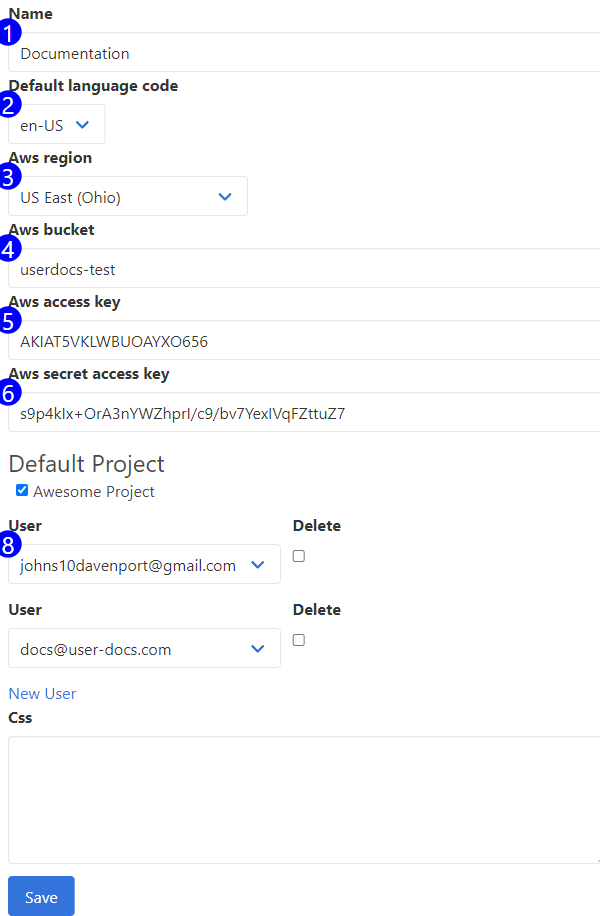
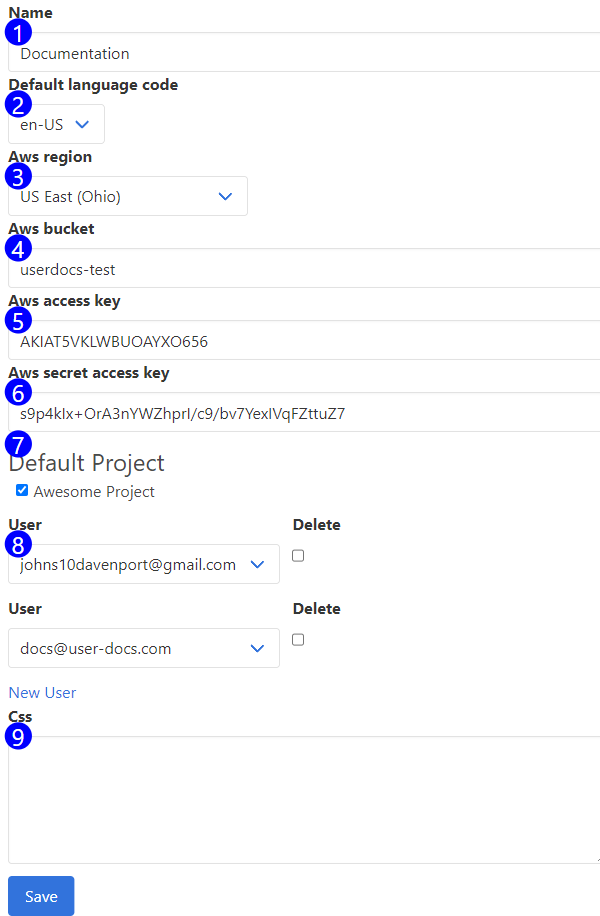
dawks

diff --git a/docs/publish.py b/docs/publish.py
@@ -13,19 +13,20 @@ def rewrite_links(content, docs):
   pattern = r'(?<!\!)\[[^\]]+\]\(([^)]+)\.md\)'
   result = re.findall(pattern, content)
   for name in result:
-    logging.debug("Attempting to rewrite link for " + name)
+    print("Attempting to rewrite link for " + name)
     doc = get_doc(docs, name)
     try:
       slug = doc["post_name"]
     except TypeError:
       logging.error("Doc not found for " + name + ", link won't get rewritten")
       slug = ""
-    content = rewrite_link(content, name, slug)
+    content = rewrite_link(content, name, "", slug)
 
   return content
 
-def rewrite_link(content, name, slug):
+def rewrite_link(content, name, path, slug):
   file_name = name + ".md"
+  # link = "/" + path + slug # Looks unnecessary to rewrite the path
   link = "/" + slug
   return content.replace(file_name, link)
 
@@ -33,6 +34,31 @@ def get_doc(docs, name):
   for doc in docs:
     if doc["file_name"] == name + ".md":
       return doc
+
+"""
+This was to rewrite the path according to the parents. Looks unnecessary.
+def get_doc_by_id(docs, id):
+  for doc in docs:
+    if doc["id"] == id:
+      return doc
+
+def get_parents(parents, docs, doc):
+  parent_id = doc["post_parent"]
+  if parent_id == 0:
+    return reversed(parents)
+  else:
+    parent = get_doc_by_id(docs, parent_id)
+    parents.append(parent['post_name'])
+    parents = get_parents(parents, docs, parent)
+    return parents
+
+def build_path(parents):
+  path = ""
+  for parent in parents:
+    path += parent + "/"
+
+  return path
+"""
 
 for doc in docs:
   logging.info(f'publishing {doc["file_name"]}')

diff --git a/docs/step_types.md b/docs/step_types.md
@@ -1,22 +1,18 @@
-Step Types are the different types of steps that can be executed in the browser. Each step type has a handler implemented for the selected automation framework (we only support puppeteer at this time). Check out the puppeteer step handlers [here](https://github.com/johns10/userdocs_clients/blob/main/packages/runner/src/automation/puppeteer/stepHandlers.ts).
+Step Types are the different types of steps that UserDocs executes in the browser. Each step type has a handler implemented for the selected automation framework (currently, we support puppeteer). Check out the puppeteer step handlers [here](https://github.com/johns10/userdocs_clients/blob/main/packages/runner/src/automation/puppeteer/stepHandlers.ts).
 
-When a step is issued to the runner for execution, the Automation Framework will look up the handler for it, and execute it on the automated browser.
+When UserDocs issues a step to the runner for execution, the Automation Framework will look up the handler for it, and execute it on the automated browser.
 
-Many of the step types require additional inputs to execute. Information on each of these types, and their fields can be found in their individual form reference articles:
-* [Click](step_form_click.md)
-* [Fill Field](step_form_fill_field.md)
-* [Navigate](step_form_navigate.md)
-* [Set Size Explicit](step_form_set_size_explicit)
+Some step types require some data entry to execute. Read about each step type in its form reference articles.
 
-Some steps types do not require additional inputs, including:
+Some steps types do not require data entry, including:
 
 ## Full Screen Screenshot
-Takes a screenshot of the entire viewport (may be bounded by the window).
+Takes a screenshot of the entire view port of the browser window.
 
 ## Clear Annotations
-A record of each annotation is attached to the window. This step type clears all annotations from the window.
+UserDocs attaches a record of each annotation to the window. This step type clears all annotations from the window.
 
-## Enable/Disable Javascript
-These steps enable and disable javascript from running in the browser. If you disable javascript temporarily, you should re-enable it before the end of the process. Failing to re-enable javascript is likely to cause failures in downstream steps and processes.
+## Enable/Disable JavaScript
+These steps enable and disable JavaScript from running in the browser. If you disable JavaScript temporarily, you should re-enable it before the end of the process. Failing to re-enable JavaScript may cause failures in downstream steps and processes.
 
-This step type should be used in situations where the page of your application is being updated beyond your control. For example, UserDocs is a server-side rendered application. While we are collecting screenshots for our own application, it is processing subscription updates in the UI. This causes minor UI changes that result in diff errors every time we collect a screenshot. We disable Javascript to prevent these subscription updates from being processed.
+Use this step type in situations where you can't control updates to the page of your application. For example, UserDocs is a server-side rendered application. While collecting screenshots for our application, UserDocs is processing subscription updates in the UI. This causes minor UI changes that result in diffs every time we collect a screenshot. We disable JavaScript to prevent these subscription updates.

diff --git a/docs/team_form_reference.md b/docs/team_form_reference.md
@@ -1,0 +1,18 @@
+Change your teams' settings on the team form, and administer what users have access to your team's content.
+
+UserDocs uses your AWS bucket to store images for the application. You must enter credentials here for the image backend to work. UserDocs will create presigned URL's for the application, so no special security settings are necessary for the application to work.
+
+![Team Form Reference](images/team_form_reference.png)
+
+1. **Name** - The name of your team.
+2. **Default Language Code** - The default language your team speaks and writes. The default languaged used by UserDocs when presenting documentation.
+3. **AWS Region** - The region of your AWS bucket.
+4. **AWS Bucket** - The name of your bucket.
+5. **AWS Access Key** - Access key for the AWS account you've provisioned for this integration.
+6. **AWS Secret Access Key** - The secret for the AWS account you've provisioned for this integration.
+7. **Default Project** - The default project for the team. UserDocs will display data from this project to users who haven't yet selected their current project.
+8. **Team Users** - Use this subform to provision users to work on this team with you. You can remove, update, and add new users with this subform.
+9. **CSS** - UserDocs will inject this CSS code into the automated browser every time it starts up. Use it to style your annotations, minimizing the data entry required to apply annotations to your page.
+
+## Accessible at
+`/teams/:id`

diff --git a/docs/step_form_navigate.md b/docs/step_form_navigate.md
@@ -4,10 +4,10 @@ The Navigate Step type will navigate to the given URL in the browser. Selecting 
 
 1. **Type URL** - Selecting the type option will open a text input you can use to type in a URL to navigate to. This option is not recommended as UserDocs won't be able to associate elements to a page object, or determine what page you are on for the rest of the process.  This option may be deprecated in a future release.
 2. **Page Select Input** - Use this dropdown to pick any page that exists in the project.
-3. **Create Page** - Clicking the new page button will create a blank page, and empty the fields in the page subform.
+3. **Create Page** - Clicking the new page button will create a blank page, and empty the fields in the page sub form.
 4. **Order** - This field will be deprecated. It shouldn't be used.
 5. **Name** - A descriptive name for the page. Will be used in the UI.
-6. **Url** - The URL for the page. This is the address that UserDocs will navigate to when the step is executed. Should be entered in the form protocol://address.com, like https://www.google.com
+6. **URL** - The URL for the page. This is the address that UserDocs will navigate to when the step is executed. Should be entered in the form protocol://address.com, like https://www.google.com
 
 ## Accessible at
 `/steps/:id/edit`

diff --git a/docs/projects_menu_reference.md b/docs/projects_menu_reference.md
@@ -1,0 +1,19 @@
+Use the Project Menu to administer a teams projects. Use this menu to list the projects your team owns, interact with existing projects, and create new ones.
+
+![Project Menu Reference](images/project_menu_reference.png)
+
+1. **Existing Project** - Click the existing project to open the [versions menu](version_menu_reference.md) for this project. This link will ignore your current project selection, and show the versions for the project you clicked. Use this to administer projects that you don't have selected.
+2. **Show Project** - Shows this project. The show menu displays the default version for this project, and the projects versions.
+3. **Edit Project** - Opens the [project form](project_form_reference.md) for this project.
+4. **Delete Project** - Opens a confirmation dialogue, and then deletes the project.
+5. **New Project** - Create a new project.
+
+## Accessible at
+
+`/teams/:team_id/projects`
+
+Displays the projects for a specific team. Used to drill down to a process when you've selected a different version in the picker.
+
+`/projects`
+
+Displays the processes for the selected team.

diff --git a/docs/projects_form_reference.md b/docs/projects_form_reference.md
@@ -1,0 +1,15 @@
+Use this form to interact with existing, and create new projects in your teams workspace.
+
+![Project Form Reference](images/project_form_reference.png)
+
+1. **Team Selector** - Use this input to update the team that this project belongs to. If you change the team for the project, it will dissappear from your UI. To access the project, you must switch over to the team you moved the project to. 
+2. **Name** - The name of the project. Used for display purposes.
+3. **Base URL** - The base URL for your project. This isn't used in the application right now. In the future, UserDocs will dynamically generate page URL's based on this value.
+4. **Default Version** - The default version for this project. UserDocs will use this value to display data in the application before a user selects their team, project, and version.
+
+
+
+## Accessible at
+
+`/projects/:project_id/edit`
+`/projects/new`

diff --git a/docs/userdocs_web_documentation.md b/docs/userdocs_web_documentation.md
@@ -1,0 +1,3 @@
+Welcome to the documentation for the [UserDocs Web Application](https://user-docs.com/userdocs-web/). [UserDocs Web](https://user-docs.com/userdocs-web/) is a web-based front end for building automated screenshot collection processes. These documents describe how to use the product to automate your screenshots.
+
+We built all the screenshots in our documentationwith the UserDocs screenshot automation Suite. We write our documentation in markdown, and published to our WordPress site using internally developed tools. Check out the source code for our documentation on the [userdocs_clients github](https://github.com/johns10/userdocs_clients/tree/main/docs). 

diff --git a/docs/versions_explanation.md b/docs/versions_explanation.md
@@ -1,0 +1,1 @@
+Versions represent individual versions of your project, product, or application. Projects have multiple versions, so you can maintain screenshot collection processes for current and previous versions. If you don't wish to maintain processes for multiple versions, simply create a default version, and maintain all your processes on that version. 

diff --git a/docs/team_explanation.md b/docs/team_explanation.md
@@ -1,0 +1,1 @@
+Teams organize users into groups so they can collaborate on their screenshot automation projects. Teams establish access privileges so content isn't exposed to users outside your team. Teams also hold several settings that apply to all content in a teams portfolio, like CSS styles, storage locations and credentials.

diff --git a/docs/projects_explanation.md b/docs/projects_explanation.md
@@ -1,0 +1,1 @@
+Use projects to organize processes and other content for a specific software product or project. Teams can have more than one project. If your team manages a public website, a web app, and mobile app, create one project for each. You can move content between projects at any time, but projects can't share content.

diff --git a/docs/process_menu.md b/docs/process_menu.md
@@ -17,4 +17,4 @@ Displays the processes for a specific version. Used to drill down to a process w
 
 `/processes`
 
-Displays the processes for the currently selected version.
+Displays the processes for the selected version.
